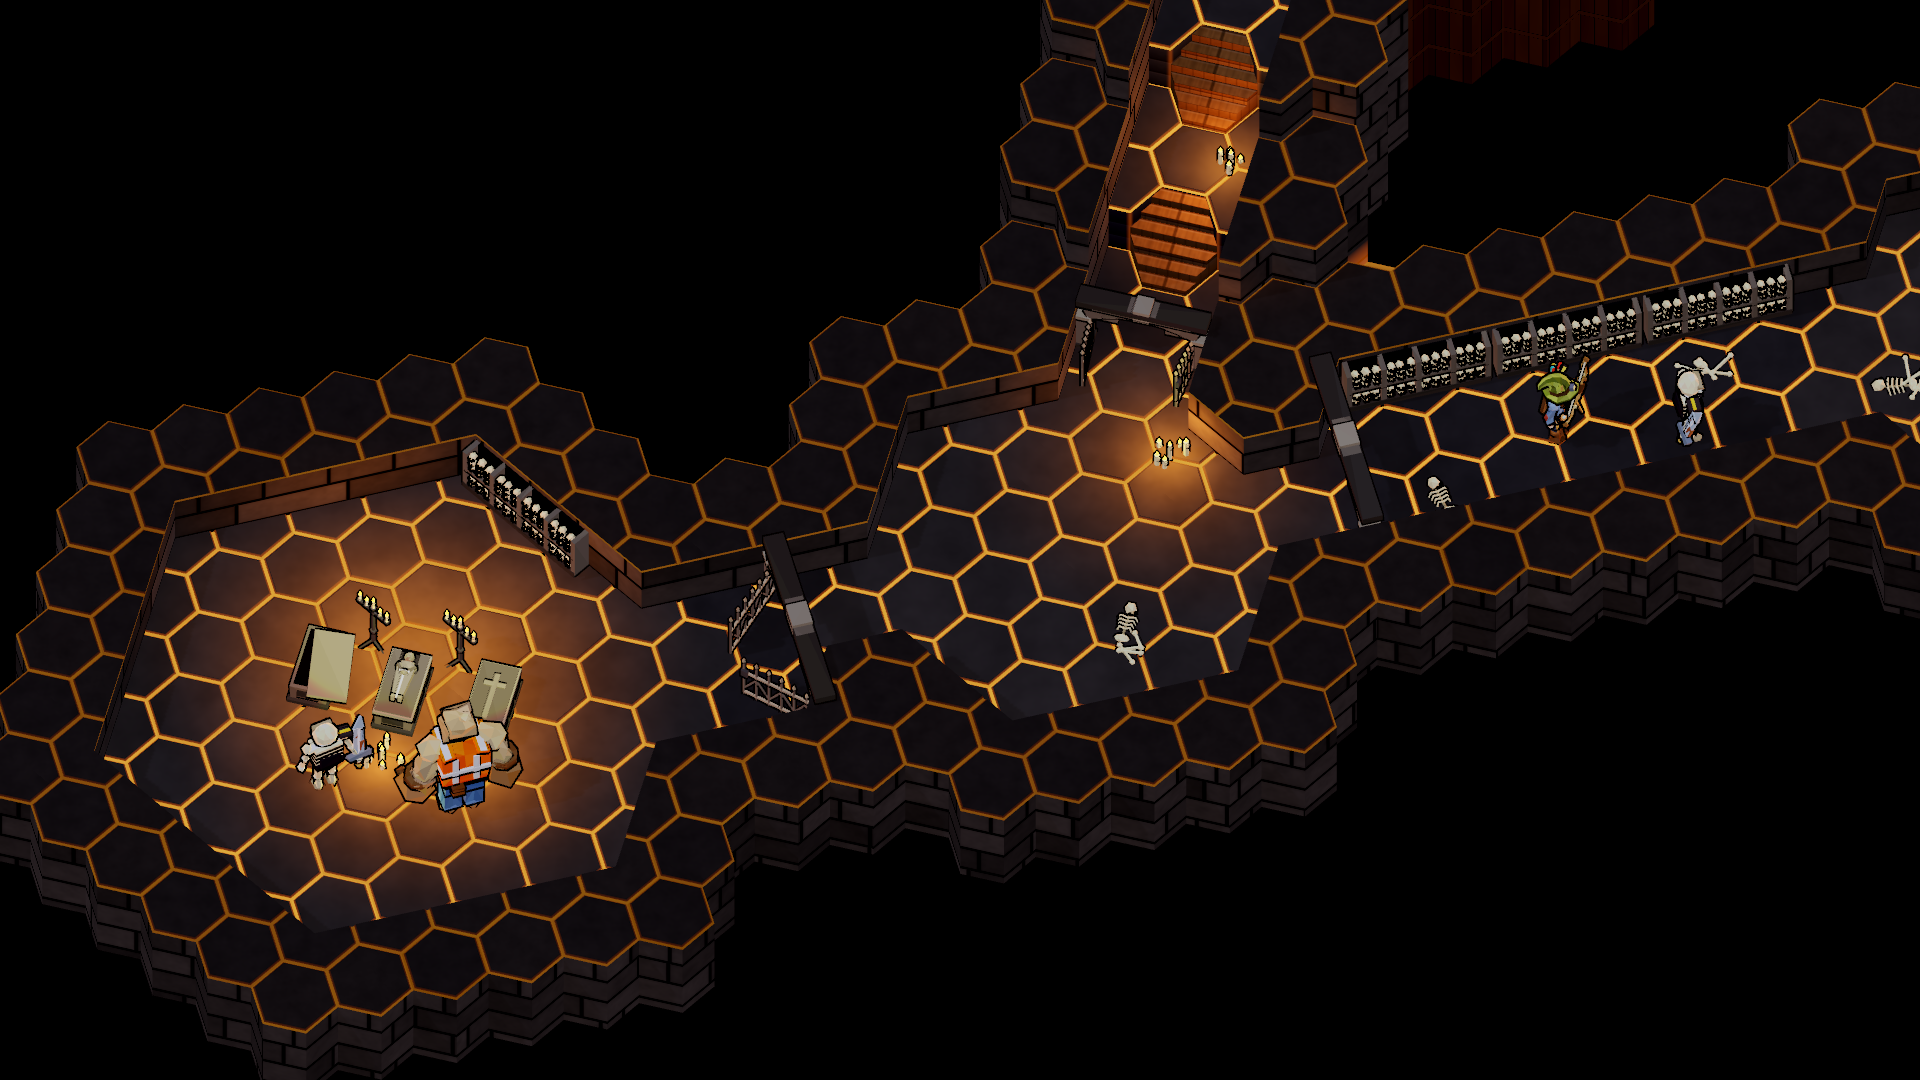
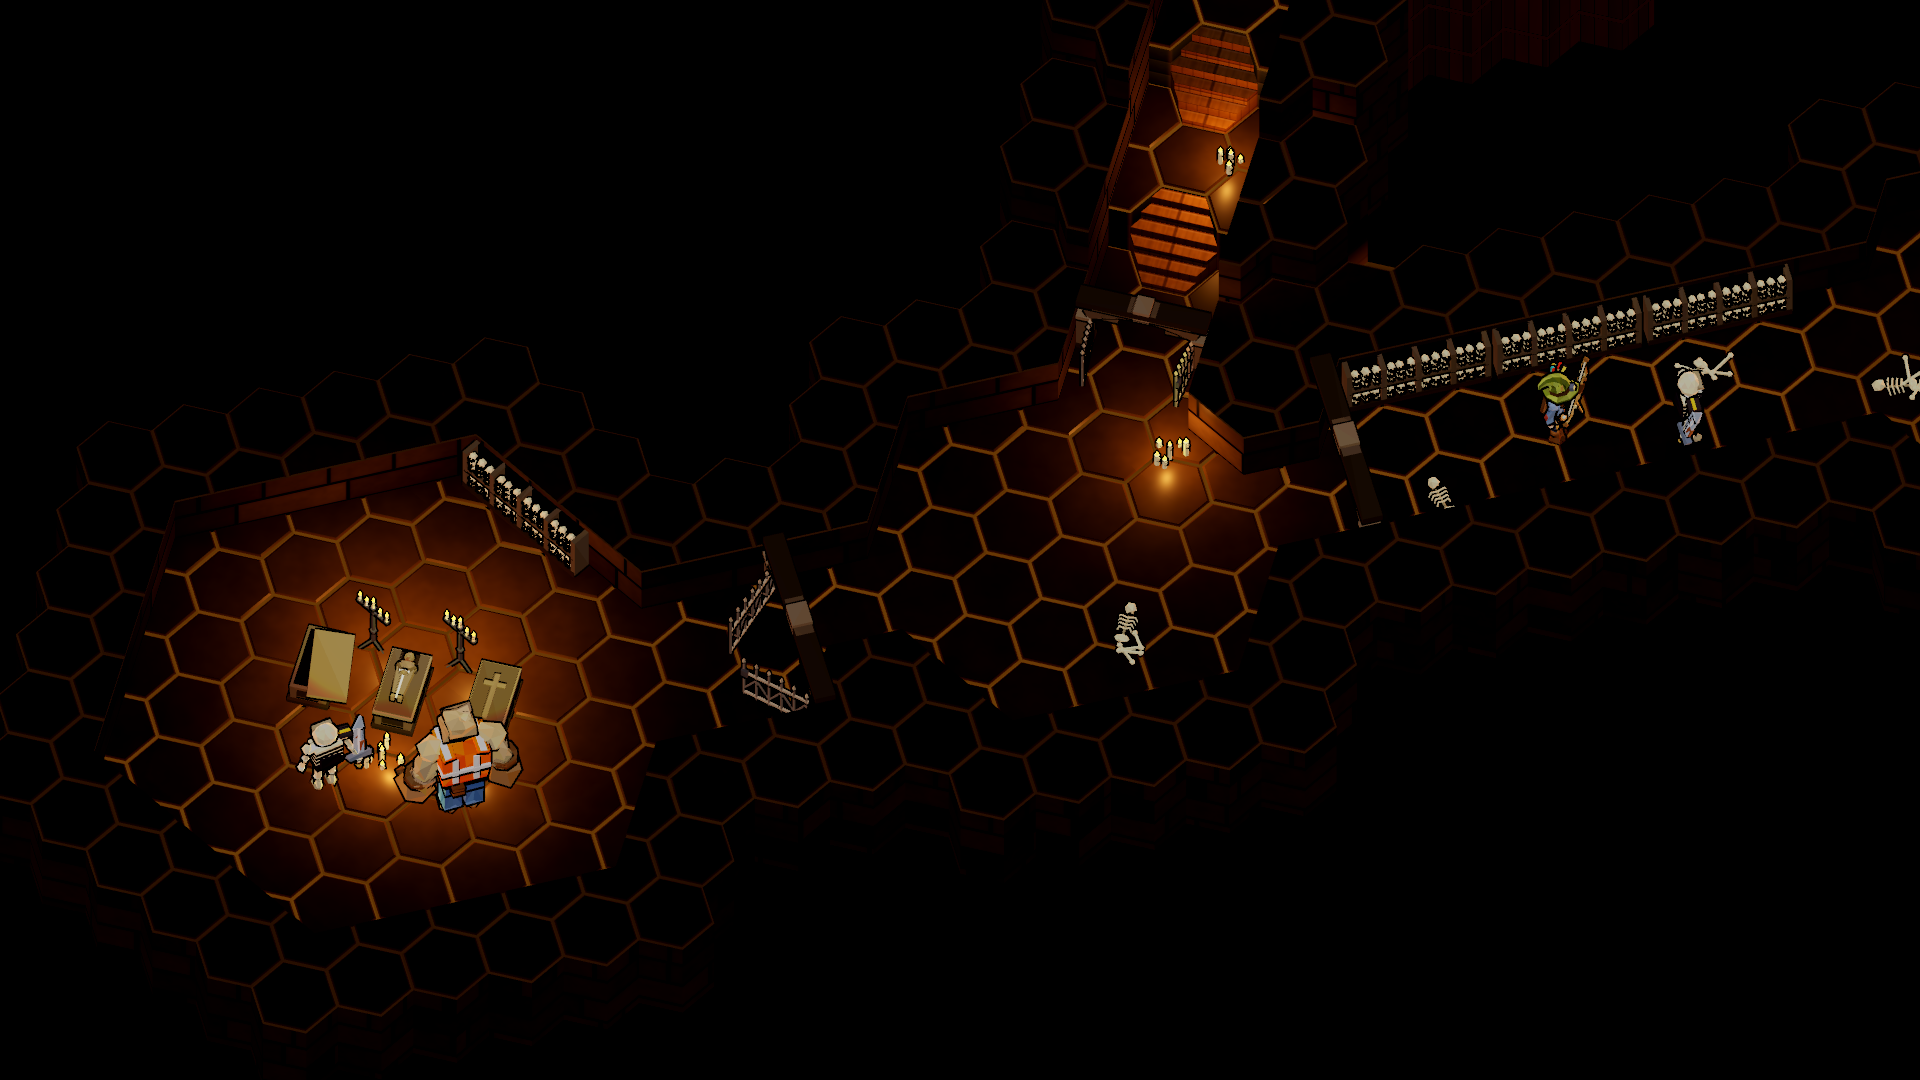
Crypt sets set apart: the vault warm black-brown wet stone in candle pools, the chapel whitewash with pale shafts from above; seams almost off

Changed region(s): [[0.0, 0.0, 1.0, 1.0]]

diff --git a/docs/design/crypt-section.md b/docs/design/crypt-section.md
@@ -164,5 +164,14 @@ anything. The bones are a little weak."
   open top carries one more row of skulls. Asked what the white between the skull rows was (the long bones), the user:
   "Just skulls for now." The niches are rows of skulls only.
 
-The two sets: "I want both a vault and chapel, but they are too similar to eachother." Open: how to set them apart.
+The two sets: "I want both a vault and chapel, but they are too similar to eachother." They differed only in a shade of
+stone (the same floor, light, seams, layout and props), and both looked like the lair's flagstone rooms. Now
+(`CryptLook.LOOK`):
+- **Vault:** warm black-brown wet stone (low roughness, more specular), small rough stones underfoot, a very dark warm
+  ambient: the light is the candle pools. The user: "The vault is great. It really sells the dim lighting."
+- **Chapel:** whitewashed stone and pale large slabs, a cool ambient and pale shafts of light falling from gratings in the
+  church floor (`CryptLook.shaft`: a cool spot straight down and a faint beam) over the entry vault, the sarcophagi and
+  the end vault; the gallery stays dark. The first try was "too bright. But it is definitely more distinct", so the
+  ambient is about half (0.85 to 0.4) and the shafts stronger.
+- **Both:** the hex seam glow almost off (0.08, 0.1), so a crypt does not read as the game's usual grid.
 
